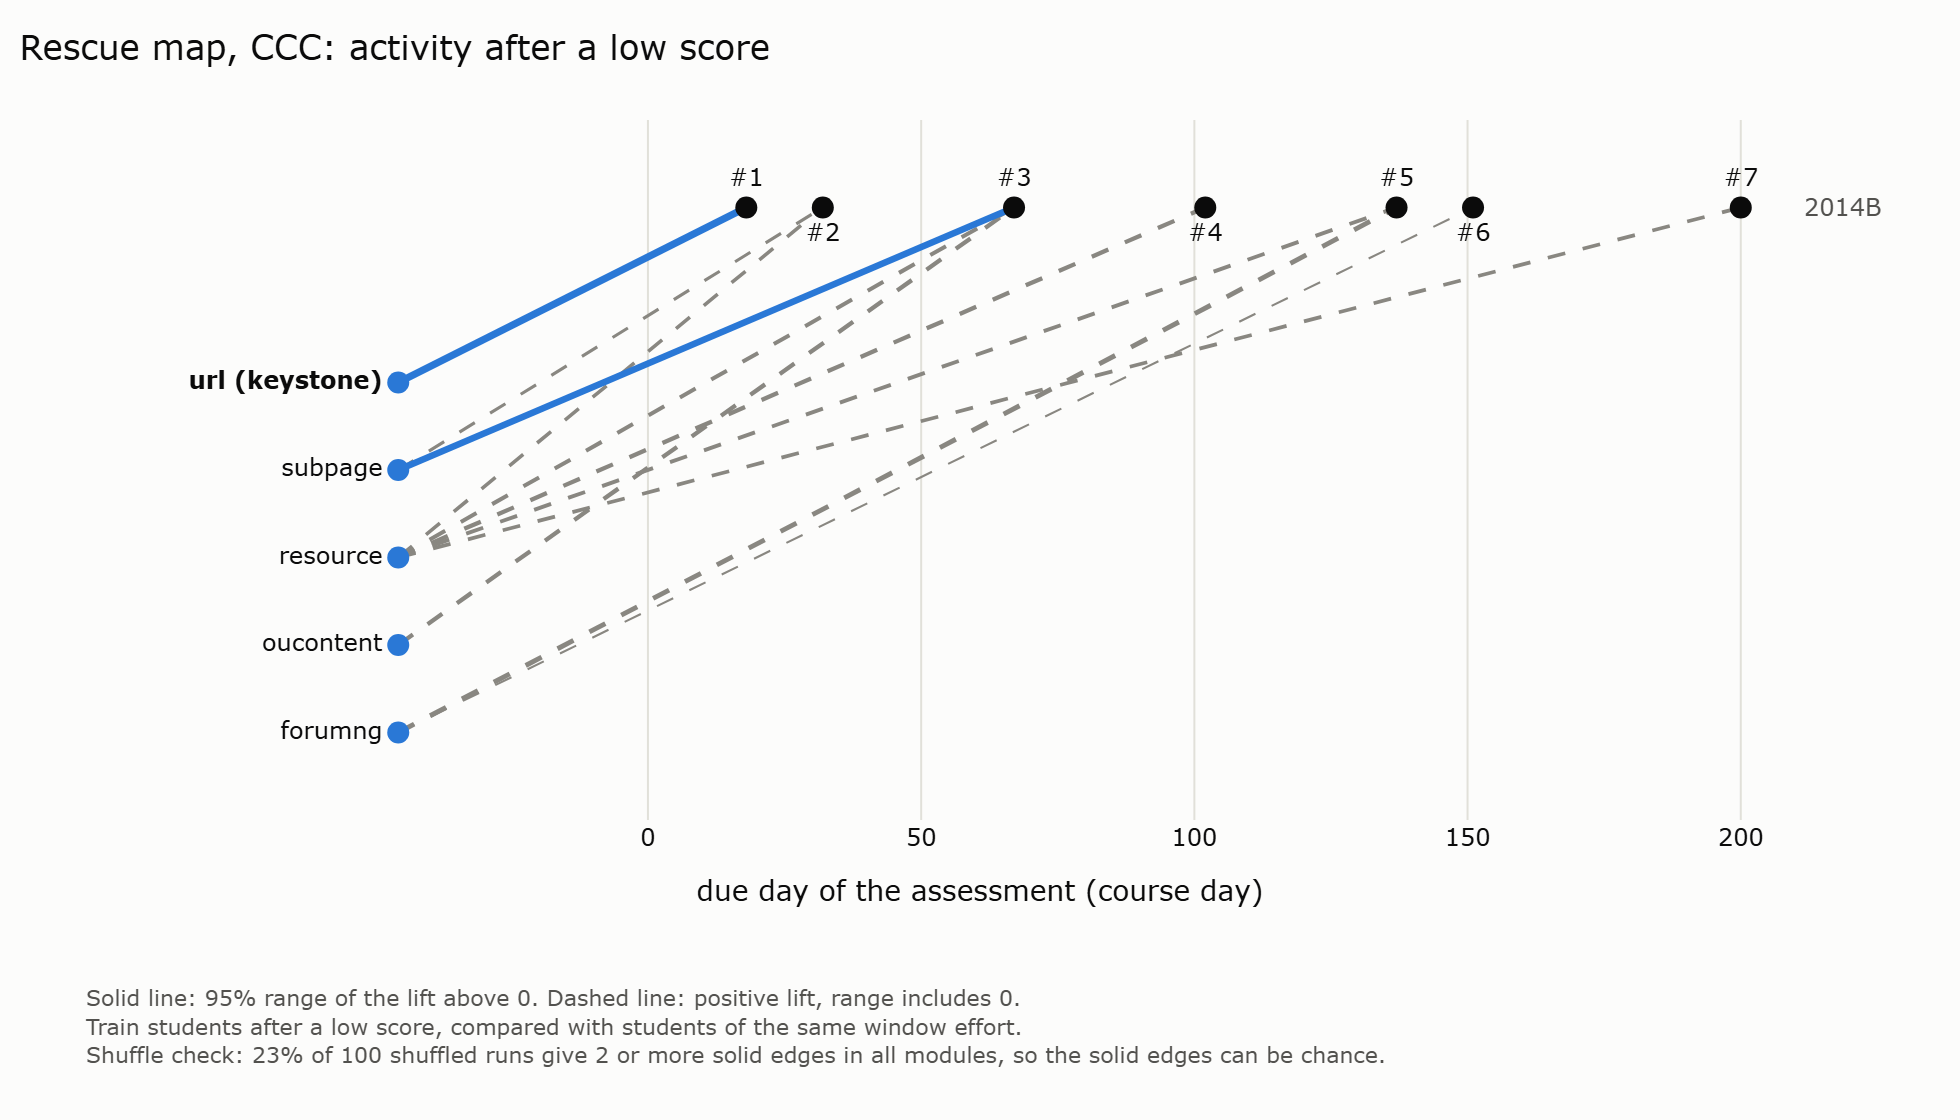
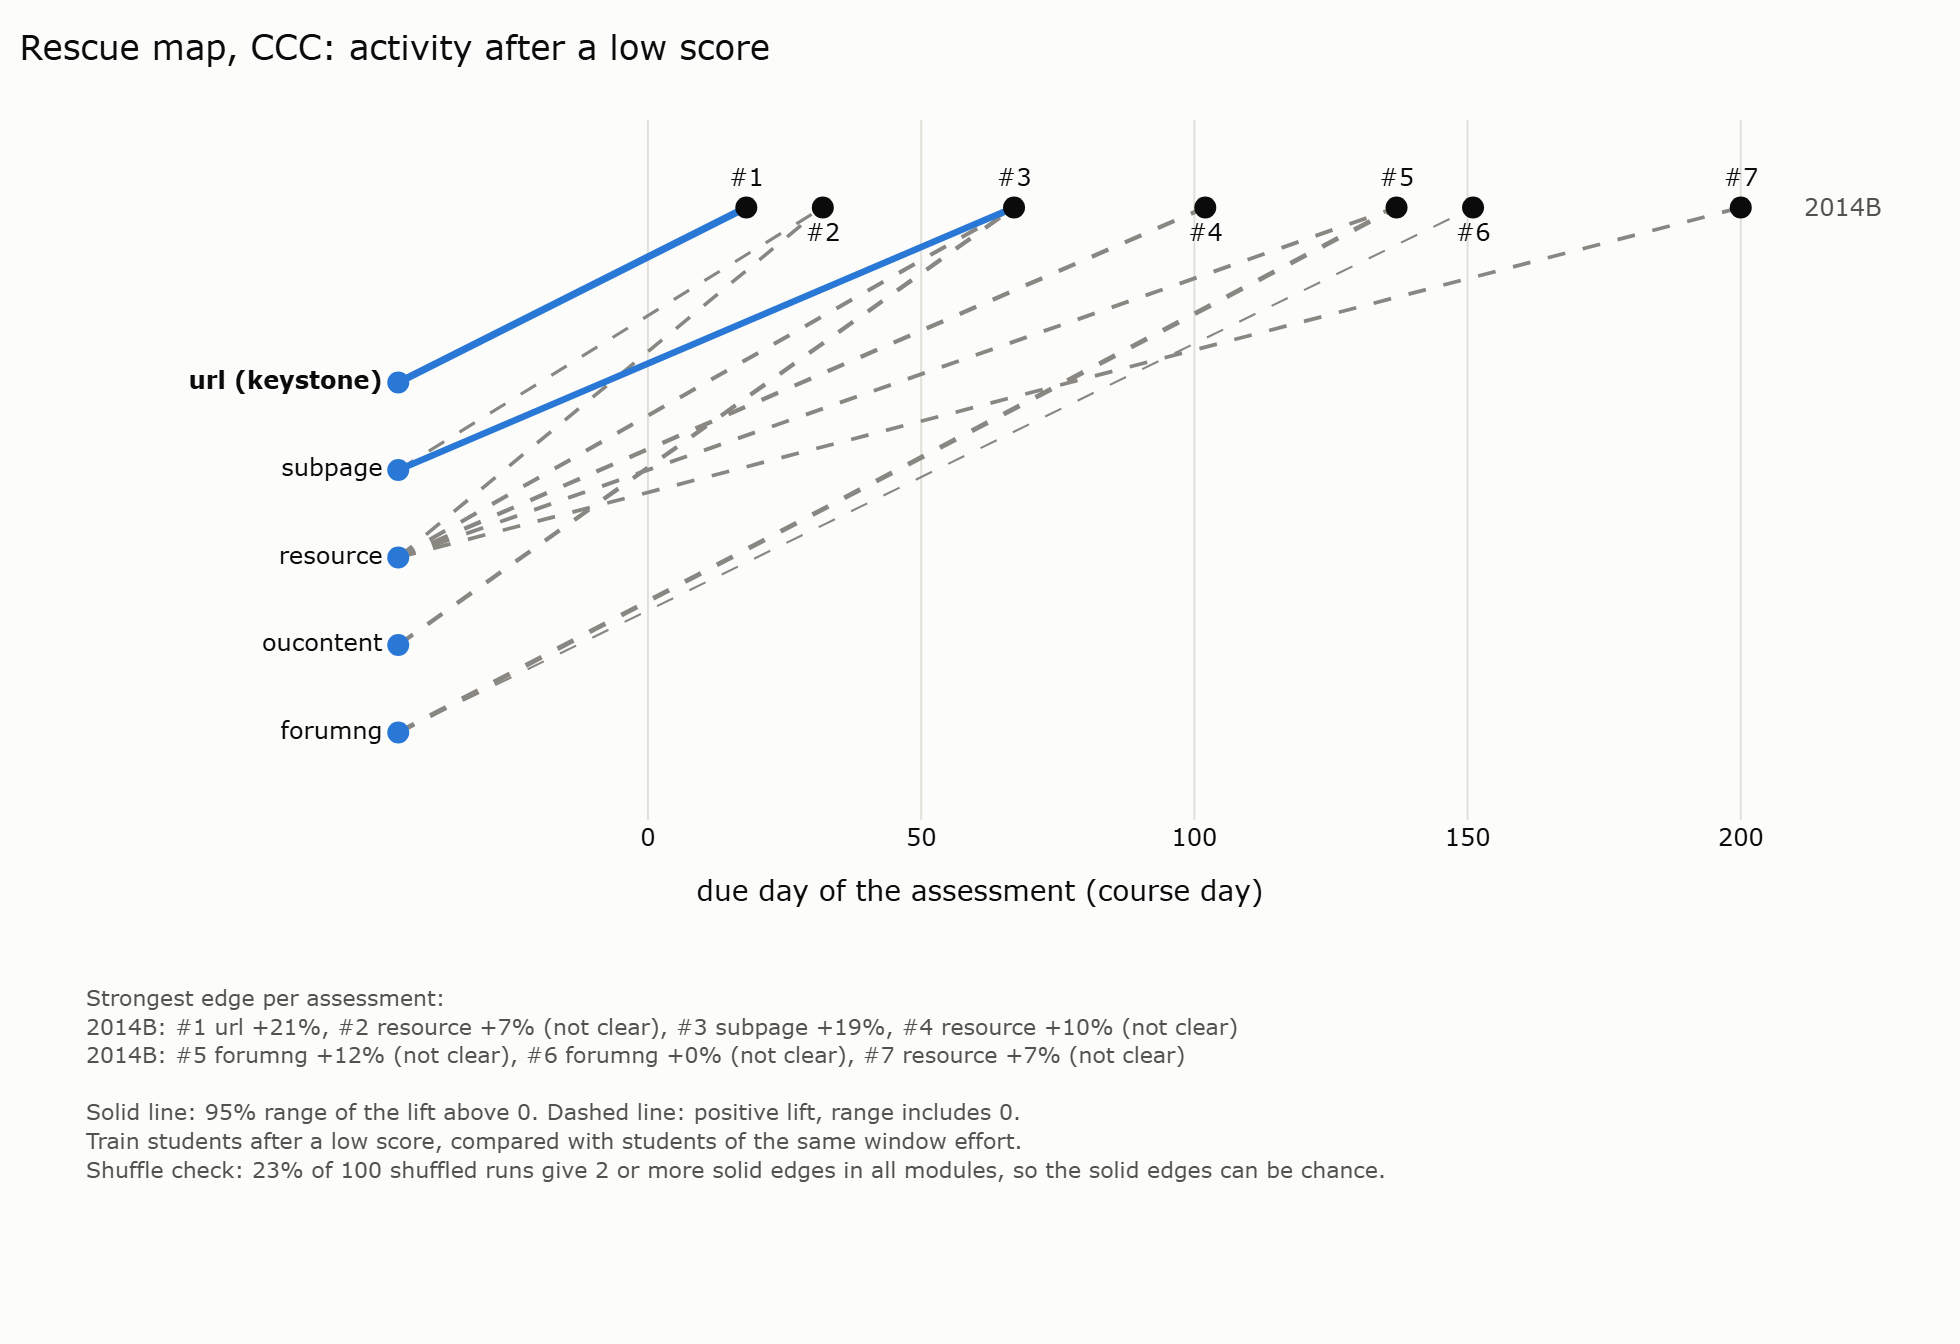
phase E: store and show the strongest edge per assessment, add the scope suffix to rescue figures

diff --git a/src/liftpath/rescue.py b/src/liftpath/rescue.py
@@ -20,6 +20,7 @@ SOLID = "solid"
 DASHED = "dashed"
 CELL = ["module", "assessment_id"]
 ITEMS_PER_EDGE = 3
+STRONGEST_PER_LINE = 4
 EDGE_COLS = ["module", "course_id", "assessment_id", "due_day", "action", "lift", "ci_low",
              "ci_high", "n_did", "n_did_not", "style"]
 
@@ -148,6 +149,11 @@ def assessment_labels(edges: pd.DataFrame) -> pd.DataFrame:
     rows = rows.sort_values(["course_id", "due_day", "assessment_id"])
     rows["number"] = rows.groupby("course_id").cumcount() + 1
     rows["presentation"] = rows["course_id"].str.split("_").str[-1]
+    best = strongest_edges(edges).set_index("assessment_id")
+    lift = rows["assessment_id"].map(best["lift"])
+    unclear = np.where(rows["assessment_id"].map(best["style"]) == DASHED, " (not clear)", "")
+    rows["text"] = [f"#{n} {a} {v:+.0%}{u}" for n, a, v, u in zip(
+        rows["number"], rows["assessment_id"].map(best["action"]), lift, unclear, strict=True)]
     return rows
 
 
@@ -174,6 +180,7 @@ def rescue_figure(edges: pd.DataFrame, module: str, note: str) -> go.Figure:
     span = max(labels["due_day"].max() - labels["due_day"].min(), WEEK_DAYS)
     left = labels["due_day"].min() - 0.35 * span
     where = labels.set_index("assessment_id")
+    n_lines = sum(-(-n // STRONGEST_PER_LINE) for n in labels.groupby("presentation").size())
 
     fig = go.Figure()
     for row in edges.sort_values("style").itertuples():
@@ -203,14 +210,22 @@ def rescue_figure(edges: pd.DataFrame, module: str, note: str) -> go.Figure:
     fig.update_layout(
         title={"text": f"Rescue map, {module}: activity after a low score", "x": 0.01},
         paper_bgcolor=SURFACE, plot_bgcolor=SURFACE, font={"color": TEXT},
-        height=260 + 50 * (len(types) + len(presentations)), width=980,
-        margin={"l": 40, "r": 40, "t": 60, "b": 150},
+        height=340 + 16 * n_lines + 50 * (len(types) + len(presentations)), width=980,
+        margin={"l": 40, "r": 40, "t": 60, "b": 230 + 16 * n_lines},
         xaxis={"title": "due day of the assessment (course day)", "gridcolor": GRID,
                "zeroline": False,
                "tickvals": list(range(0, int(labels["due_day"].max()) + 1, 50)),
                "range": [left - 0.32 * span, labels["due_day"].max() + 0.14 * span]},
         yaxis={"visible": False, "range": [-1, max(row_y.values()) + 1]})
+    # The strongest edge per assessment, as a list under the chart (labels on the
+    # timeline collide when due days are close).
+    strongest = ["Strongest edge per assessment:"]
+    for p, rows in labels.groupby("presentation"):
+        texts = rows["text"].tolist()
+        for i in range(0, len(texts), STRONGEST_PER_LINE):
+            strongest.append(f"{p}: " + ", ".join(texts[i:i + STRONGEST_PER_LINE]))
     fig.add_annotation(x=0, y=0, yshift=-80, xref="paper", yref="paper", xanchor="left",
                        yanchor="top", showarrow=False, align="left",
-                       font={"size": 11, "color": TEXT_SECONDARY}, text=note)
+                       font={"size": 11, "color": TEXT_SECONDARY},
+                       text="<br>".join(strongest) + "<br><br>" + note)
     return fig

diff --git a/src/liftpath/cli.py b/src/liftpath/cli.py
@@ -28,7 +28,7 @@ from liftpath.paths import (
     scope_dir,
 )
 from liftpath.recover import RECOVERY_LEVELS, build_recovery_points, recovery_tables
-from liftpath.report import run_eval
+from liftpath.report import run_eval, suffix
 from liftpath.rescue import (
     DASHED,
     SOLID,
@@ -39,6 +39,7 @@ from liftpath.rescue import (
     rescue_figure,
     rescue_items,
     rescue_note,
+    strongest_edges,
 )
 from liftpath.route import item_schedule, score_transitions
 from liftpath.scopes import build_sample
@@ -235,15 +236,21 @@ def step_rescue(cfg: Config) -> None:
     out.mkdir(exist_ok=True)
     edges.to_parquet(out / "edges.parquet", index=False)
     items.to_parquet(out / "items.parquet", index=False)
+    strongest_edges(edges).to_parquet(out / "strongest.parquet", index=False)
     note = rescue_note(meta)
     figures = REPORTS_DIR / "figures"
+    tag = suffix(cfg)
+    # A module that lost its solid edge must not keep an old map.
+    for old in figures.glob(f"rescue_*{tag}.png"):
+        if tag or old.stem.count("_") == 1:
+            old.unlink()
     for module in sorted(edges["module"].unique()):
         found = keystone(build_graph(edges[edges["module"] == module]))
         meta["keystones"][module] = found
         # A figure only for modules with a solid edge. Dashed-only maps show nothing clear.
         if found is not None:
-            rescue_figure(edges, module, note).write_image(figures / f"rescue_{module}.png",
-                                                           scale=2)
+            rescue_figure(edges, module, note).write_image(
+                figures / f"rescue_{module}{tag}.png", scale=2)
     (out / "meta.json").write_text(json.dumps(meta, indent=2), encoding="utf-8")
     print(f"edges by module and style: {edges.groupby(['module', 'style']).size().to_dict()}")
     print(f"items: {len(items)}. meta: {meta}")

diff --git a/src/liftpath/app_data.py b/src/liftpath/app_data.py
@@ -119,6 +119,9 @@ def build_app_data(cfg: Config, points: pd.DataFrame, candidates: list[str],
     if rescue_dir is not None and (rescue_dir / "edges.parquet").exists():
         edges = pd.read_parquet(rescue_dir / "edges.parquet")
         write(suppress_counts(edges, LIFT_COUNTS, cfg), out_dir / "rescue_edges.parquet")
+        strongest = pd.read_parquet(rescue_dir / "strongest.parquet")
+        write(suppress_counts(strongest, LIFT_COUNTS, cfg),
+              out_dir / "rescue_strongest.parquet")
         items = pd.read_parquet(rescue_dir / "items.parquet")
         write(suppress_counts(items, ["n_students"], cfg), out_dir / "rescue_items.parquet")
         shutil.copy2(rescue_dir / "meta.json", out_dir / "rescue_meta.json")

diff --git a/PROGRESS.md b/PROGRESS.md
@@ -172,9 +172,11 @@
 - Phase E: `src/liftpath/rescue.py` and `make rescue` (also in `make all`, after plan and before app-data). Edges come from train recovery points only: `estimate_lifts` with cell (module, assessment_id), effort = window effort band, treatments rev_<type>, goal_recover. An edge needs min(n_did, n_did_not) >= rescue_min_count (20) and lift > 0. Solid if ci_low > 0, else dashed. Weight = lift. `rescue_edges` and `rescue_items` raise an error on test points.
 - Phase E result, full scope: 97 supported (assessment, type) rows in 114 train cells. 2 solid edges, both in CCC_2014B: url to assessment 24286 (due day 18), lift +20.9% (range +9.0% to +32.8%, 78 and 139 cases), and subpage to assessment 24287 (due day 67), lift +18.9% (range +3.9% to +33.9%, 30 and 36 cases). 61 dashed edges: CCC 9, DDD 36, FFF 16. AAA, BBB, EEE and GGG have no supported edge.
 - Phase E shuffle check (new config key `rescue_null_runs: 100`): goal_recover shuffled within (module, assessment_id, effort band), seeded. Solid edge count under the shuffle: mean 0.95, 95th percentile 3, and 23% of runs give 2 or more. So the 2 solid edges are consistent with chance. The figure caption says so. Phase F and G must not present the keystone or the solid edges as a finding without this sentence.
-- Phase E deviation: the keystone uses solid edges only (weighted degree, weight = lift). BUILD2 builds the graph from both kinds. A dashed-edge keystone would rank types by the number of unclear edges. A module with no solid edge has no keystone. Keystones: CCC url, DDD none, FFF none. The strongest edge per assessment prefers a solid edge, else the dashed edge with the highest lift, and it keeps its style.
+- Phase E deviation: the keystone uses solid edges only (weighted degree, weight = lift). BUILD2 builds the graph from both kinds. A dashed-edge keystone would rank types by the number of unclear edges. A module with no solid edge has no keystone. Keystones: CCC url, DDD none, FFF none. In CCC, url and subpage each have exactly one solid edge. url wins on lift (+20.9% against +18.9%), but the two ranges overlap almost fully, so the choice between them means nothing, on top of the shuffle result. The strongest edge per assessment prefers a solid edge, else the dashed edge with the highest lift, and it keeps its style.
 - Phase E: figures only for modules with a solid edge: `reports/figures/rescue_CCC.png` (the Done-when needs only these). DDD and FFF have only dashed edges, and a draft DDD map was a tangle of 36 unclear lines. The app data keeps all edges. Figure layout: types in a left column, assessments on a due-day axis with one row per presentation, solid lines in the LiftPath blue (width grows with lift), dashed lines in gray.
 - Phase E items: per solid edge, the top 3 old items (active day before the due day) of that type that recovered train students revisited in the window (due day to next due day), ranked by distinct students, then clicks, then item_id. Same window rule as `recover.WINDOW_CLICKS_SQL`, and it reuses `ACTIVE_DAY_SQL`. url edge: item 730135 (45 students), 730126. subpage edge: items 730017, 730023, 730024.
+- Phase E: the strongest edge per assessment goes to `<scope>/rescue/strongest.parquet` and `data/app/rescue_strongest.parquet` (counts suppressed). The figure lists it under the chart, for example "#1 url +21%" or "#2 resource +7% (not clear)". Labels on the timeline collided when due days were close, so the markers show only the number.
+- Phase E: rescue figures carry the scope suffix (`rescue_CCC.png` for full, `rescue_CCC_sample.png` for sample). `make rescue` deletes the old maps of its scope first, so a module that loses its solid edge loses its map.
 - Phase E app data: `build_app_data` copies `<scope>/rescue/` when it exists: `rescue_edges.parquet` (counts suppressed), `rescue_items.parquet` (n_students suppressed, 1 row hidden) and `rescue_meta.json` (edge counts, shuffle result, keystones).
 - Phase E: new dependencies networkx 3.7 and kaleido (plotly PNG export). Kaleido 1.x renders with the installed Chrome. The fresh-clone `make all` in Phase G needs Chrome on the machine.
 - Phase B: `make all` does not run `sim`. Phase F app data and a fresh-clone build need `make sim` (40 s).
